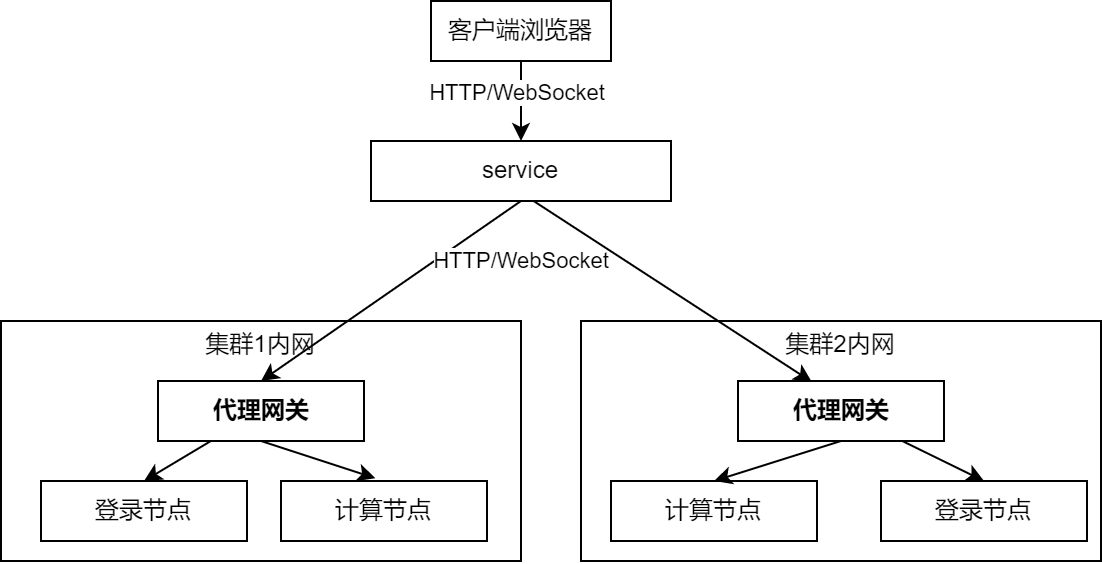
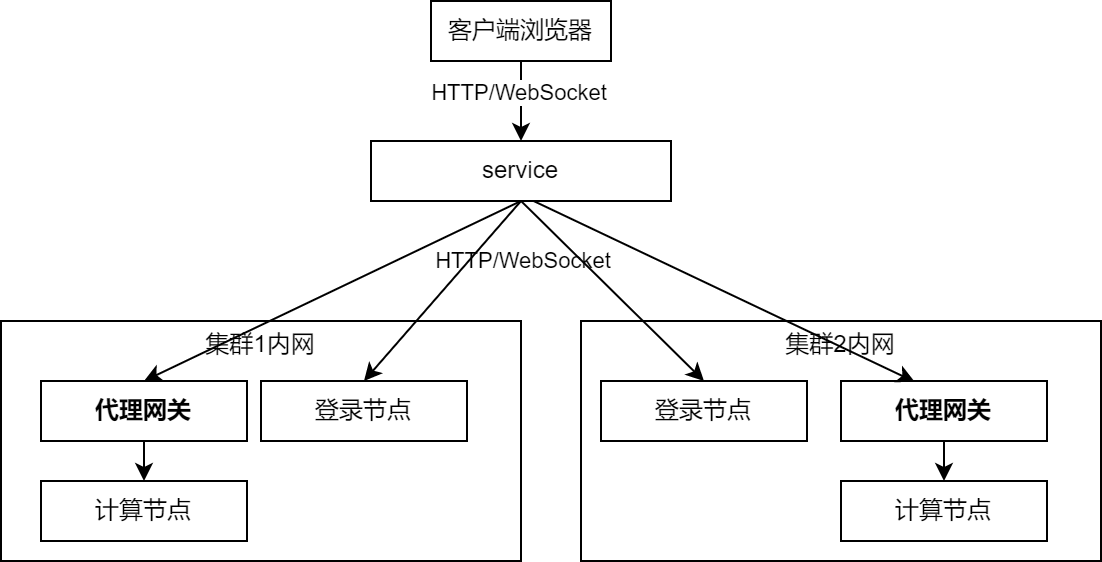
feat(portal): 通过代理网关节点解析主机名连接交互式应用，以及刷新vnc密码 (#688)
### 现状
1. 代理网关的Nginx代理交互式应用连接时，Nginx无法解析类似于运行交互式应用的计算节点的IP地址，所以配置代理网关节点后无法连接
2.
VNC连接刷新密码时，scow节点需要在计算节点上使用当前用户刷新密码，加入代理网关节点后，scow无法直接连接计算节点，故无法实现密码刷新以及后续连接

### 改动
如果在配置代理网关的情况下：
1. 用户点击连接交互式应用时，由scow节点连接到代理网关节点，使用`ping -c 1 -W 1 compute node
`命令获取计算节点IP后再发送请求至代理网关节点。
2.
用户连接VNC应用时，由scow节点连接到代理网关节点后，以root身份从代理网关节点连接至计算节点，并以当前用户运行刷新密码命令，同时在代理网关节点使用`ping
-c 1 -W 1 compute node
`获取计算节点IP。如果是连接VNC应用时，连接app将略过第一步，获取IP将在刷新密码时一并获取。

### 要求
1. 各个集群的登陆节点对于scow节点公开，且主机名，IP不能一样。
2. scow配置root免密登录至各集群代理网关节点，且各代理网关节点可免密root登录集群内部的所有计算节点

### 文档修改

![image](https://github.com/PKUHPC/SCOW/assets/130351655/4bfe3d58-0fcb-4f7e-a540-2244e66e89ed)

![image](https://github.com/PKUHPC/SCOW/assets/130351655/976e8716-2fab-4a7b-9aa2-e69773387bd0)

diff --git a/apps/portal-server/src/clusterops/slurm/app.ts b/apps/portal-server/src/clusterops/slurm/app.ts
@@ -21,10 +21,12 @@ import { quote } from "shell-quote";
 import { AppOps, AppSession, SubmissionInfo } from "src/clusterops/api/app";
 import { displayIdToPort } from "src/clusterops/slurm/bl/port";
 import { getAppConfigs } from "src/config/apps";
+import { clusters } from "src/config/clusters";
 import { portalConfig } from "src/config/portal";
 import { splitSbatchArgs } from "src/utils/app";
+import { getIpFromProxyGateway } from "src/utils/proxy";
 import { getClusterLoginNode, sshConnect } from "src/utils/ssh";
-import { parseDisplayId, refreshPassword, VNCSERVER_BIN_PATH } from "src/utils/turbovnc";
+import { parseDisplayId, refreshPassword, refreshPasswordByProxyGateway, VNCSERVER_BIN_PATH } from "src/utils/turbovnc";
 
 import { querySqueue } from "./bl/queryJobInfo";
 import { generateJobScript, parseSbatchOutput } from "./bl/submitJob";
@@ -364,10 +366,11 @@ export const slurmAppOps = (cluster: string): AppOps => {
 
             const { HOST, PORT, PASSWORD, ...rest } = serverSessionInfo;
             const customFormData = rest as {[key: string]: string};
+            const ip = await getIpFromProxyGateway(cluster, HOST, logger);
             return {
               code: "OK",
               appId: sessionMetadata.appId,
-              host: HOST,
+              host: ip || HOST,
               port: +PORT,
               password: PASSWORD,
               customFormData:  customFormData ?? {},
@@ -397,8 +400,26 @@ export const slurmAppOps = (cluster: string): AppOps => {
 
               if (displayId) {
                 // the server is run at the compute node
-                // login to the compute node and refresh the password
 
+                // if proxyGateway configured, connect to compute node by proxyGateway and get ip of compute node
+                const proxyGatewayConfig = clusters?.[cluster]?.proxyGateway;
+                if (proxyGatewayConfig) {
+                  const url = new URL(proxyGatewayConfig.url);
+                  return await sshConnect(url.hostname, "root", logger, async (proxyGatewaySsh) => {
+                    logger.info(`Connecting to compute node ${host} via proxy gateway ${url.hostname}`);
+                    const { password, ip } =
+                      await refreshPasswordByProxyGateway(proxyGatewaySsh, host, userId, logger, displayId!);
+                    return {
+                      code: "OK",
+                      appId: sessionMetadata.appId,
+                      host: ip || host,
+                      port: displayIdToPort(displayId!),
+                      password,
+                    };
+                  });
+                }
+
+                // login to the compute node and refresh the password
                 // connect as user so that
                 // the service node doesn't need to be able to connect to compute nodes with public key
                 return await sshConnect(host, userId, logger, async (computeNodeSsh) => {

diff --git a/apps/portal-server/src/utils/turbovnc.ts b/apps/portal-server/src/utils/turbovnc.ts
@@ -14,6 +14,7 @@ import { executeAsUser, loggedExec } from "@scow/lib-ssh";
 import { NodeSSH } from "node-ssh";
 import { join } from "path";
 import { portalConfig } from "src/config/portal";
+import { parseIp } from "src/utils/proxy";
 import { Logger } from "ts-log";
 
 export const VNCSERVER_BIN_PATH = join(portalConfig.turboVNCPath, "bin", "vncserver");
@@ -81,3 +82,25 @@ export const refreshPassword = async (ssh: NodeSSH, runAsUserId: string | null, 
   return parseOtp(resp.stderr);
 };
 
+/**
+ * Refresh VNC session's OTP and get ip of compute node by proxy gateway
+ * @param proxyGatewaySsh SSH connection to proxy gateway
+ * @param computeNode compute node
+ * @param user the user id to run as.
+ * @param logger logger
+ * @param displayId displayId
+ * @returns new OTP and compute node IP
+ */
+export const refreshPasswordByProxyGateway = async (
+  proxyGatewaySsh: NodeSSH, computeNode: string, user: string, logger: Logger, displayId: number,
+) => {
+  const params = [computeNode, "sudo", "-u", user, "-s", vncPasswdPath, "-o", "-display", ":" + displayId];
+  const [passwordResp, ipResp] =
+    await Promise.all([
+      loggedExec(proxyGatewaySsh, logger, true, "ssh", [...params]),
+      loggedExec(proxyGatewaySsh, logger, true, "ping", ["-c 1", "-W 1", computeNode]),
+    ]);
+  const ip = parseIp(ipResp.stdout);
+  const password = parseOtp(passwordResp.stderr);
+  return { ip, password };
+};

diff --git a/apps/portal-server/src/utils/proxy.ts b/apps/portal-server/src/utils/proxy.ts
@@ -75,7 +75,36 @@ server {
       logger.error(e, "Error occurred during setup proxy gateway for cluster %s", id);
     });
   }
-
-
-
 };
+
+export const parseIp = (stdout: string): string => {
+  const ipReg = /(?:(?:25[0-5]|2[0-4][0-9]|[01]?[0-9][0-9]?)\.){3}(?:25[0-5]|2[0-4][0-9]|[01]?[0-9][0-9]?)/;
+  return stdout.split("\n")[0]?.match(ipReg)?.[0] || "";
+};
+
+export const getIpFromProxyGateway
+  = async (clusterId: string, hostName: string, logger: Logger): Promise<string> => {
+
+    const proxyGatewayConfig = clusters?.[clusterId]?.proxyGateway;
+
+    if (!proxyGatewayConfig) return "";
+    const url = new URL(proxyGatewayConfig.url);
+
+    return await sshConnect(url.hostname, "root", logger, async (ssh) => {
+      const resp = await loggedExec(ssh, logger, false, "ping", ["-c 1", "-W 1", hostName]);
+      if (resp.code !== 0) {
+        logger.error(
+          "Ping %s returned code %d. %s might not be reachable from %s", hostName, resp.code, hostName, url.hostname,
+        );
+        return "";
+      }
+      const ip = parseIp(resp.stdout);
+      return ip;
+    }).catch((e) => {
+      logger.error(
+        e,
+        "Error occurred during get ip of host %s from proxy gateway %s for cluster %s", hostName, url.host, clusterId,
+      );
+      return "";
+    });
+  };

diff --git a/apps/portal-server/tests/utils/parseIp.test.ts b/apps/portal-server/tests/utils/parseIp.test.ts
@@ -1,0 +1,28 @@
+/**
+ * Copyright (c) 2022 Peking University and Peking University Institute for Computing and Digital Economy
+ * SCOW is licensed under Mulan PSL v2.
+ * You can use this software according to the terms and conditions of the Mulan PSL v2.
+ * You may obtain a copy of Mulan PSL v2 at:
+ *          http://license.coscl.org.cn/MulanPSL2
+ * THIS SOFTWARE IS PROVIDED ON AN "AS IS" BASIS, WITHOUT WARRANTIES OF ANY KIND,
+ * EITHER EXPRESS OR IMPLIED, INCLUDING BUT NOT LIMITED TO NON-INFRINGEMENT,
+ * MERCHANTABILITY OR FIT FOR A PARTICULAR PURPOSE.
+ * See the Mulan PSL v2 for more details.
+ */
+
+import { parseIp } from "src/utils/proxy";
+
+const stdout = `PING cn01 (172.58.1.111) 56(84) bytes of data.
+64 bytes from cn01 (172.58.1.111): icmp_seq=1 ttl=64 time=0.154 ms
+
+--- cn01 ping statistics ---
+1 packets transmitted, 1 received, 0% packet loss, time 0ms
+rtt min/avg/max/mdev = 0.154/0.154/0.154/0.000 ms`;
+
+it("parses IP address from stdout", () => {
+  const ip = parseIp(stdout);
+  expect(ip).toBe("172.58.1.111");
+});
+
+
+

diff --git a/apps/portal-web/src/pages/api/proxy/[clusterId]/[type]/[node]/[port]/[[...path]].ts b/apps/portal-web/src/pages/api/proxy/[clusterId]/[type]/[node]/[port]/[[...path]].ts
@@ -46,8 +46,10 @@ function parseProxyTarget(url: string, urlIncludesBasePath: boolean): string | E
   const fullUri = `${(urlIncludesBasePath || basePath === "/") ? "" : basePath}${url}`;
 
   const proxyGateway = runtimeConfig.CLUSTERS_CONFIG[clusterId].proxyGateway;
+  const loginNodes = runtimeConfig.CLUSTERS_CONFIG[clusterId].slurm.loginNodes;
 
-  if (proxyGateway) {
+  // if node is login node, not proxy to proxy gateway node
+  if (proxyGateway && !loginNodes.includes(node)) {
     // proxy to proxy gateway node
     return `${proxyGateway.url}${fullUri}`;
   }

diff --git a/apps/portal-server/src/services/app.ts b/apps/portal-server/src/services/app.ts
@@ -99,9 +99,6 @@ export const appServiceServer = plugin((server) => {
       const { account, appId, cluster, coreCount, maxTime, proxyBasePath,
         partition, qos, userId, customAttributes } = request;
 
-
-
-
       const app = apps[appId];
       if (!app) {
         throw <ServiceError> { code: Status.NOT_FOUND, message: `app id ${appId} is not found` };
@@ -248,7 +245,6 @@ export const appServiceServer = plugin((server) => {
         lastSubmissionInfo: reply.lastSubmissionInfo,
       }];
     },
-
   });
 
 });

diff --git a/docs/docs/deploy/config/portal/proxy-gateway/index.md b/docs/docs/deploy/config/portal/proxy-gateway/index.md
@@ -9,9 +9,9 @@ title: 代理网关节点
 
 ![直连](./without-gateway.png)
 
-但是，在多集群环境中，各个集群之间的网络可能不连通，SCOW所在的服务节点可能不能直连所有集群的登录和计算节点。
+但是，在多集群环境中，各个集群之间的网络可能不连通，SCOW所在的服务节点可能不能直连所有集群的计算节点。
 
-对于这种情况，您可以给集群配置代理网关节点。在有代理网关的情况下，SCOW将会把交互式应用（包括VNC类型和Web类型）以及登录节点桌面的流量首先发给集群的代理网关节点。代理网关节点将会负责将流量进一步转发到具体的节点中去。
+对于这种情况，您可以给集群配置代理网关节点。在有代理网关的情况下，SCOW将会把交互式应用（包括VNC类型和Web类型）的流量首先发给集群的代理网关节点。代理网关节点将会负责将流量进一步转发到具体的节点中去。
 
 ![通过代理网关节点](./with-gateway.png)
 
@@ -97,4 +97,9 @@ proxyGateway:
 ```
 
 这样之后，`portal-server`每次启动时，都会SSH登录到代理网关节点，并根据手动配置部分自动配置。
+
+# 配置要求
+
+- 如果您配置了代理网关节点，那么需要确保在配置各集群登录节点时，登录节点的域名或者IP地址在所有集群中都是不重复的。否则，代理网关节点将无法区分不同的登录节点。
+- 代理网关节点可以使用公钥以root身份SSH登录到所有计算节点
 

diff --git a/.changeset/cuddly-guests-mix.md b/.changeset/cuddly-guests-mix.md
@@ -1,0 +1,6 @@
+---
+"@scow/portal-server": patch
+"@scow/portal-web": patch
+---
+
+通过代理网关节点解析主机名连接交互式应用，以及刷新vnc密码
